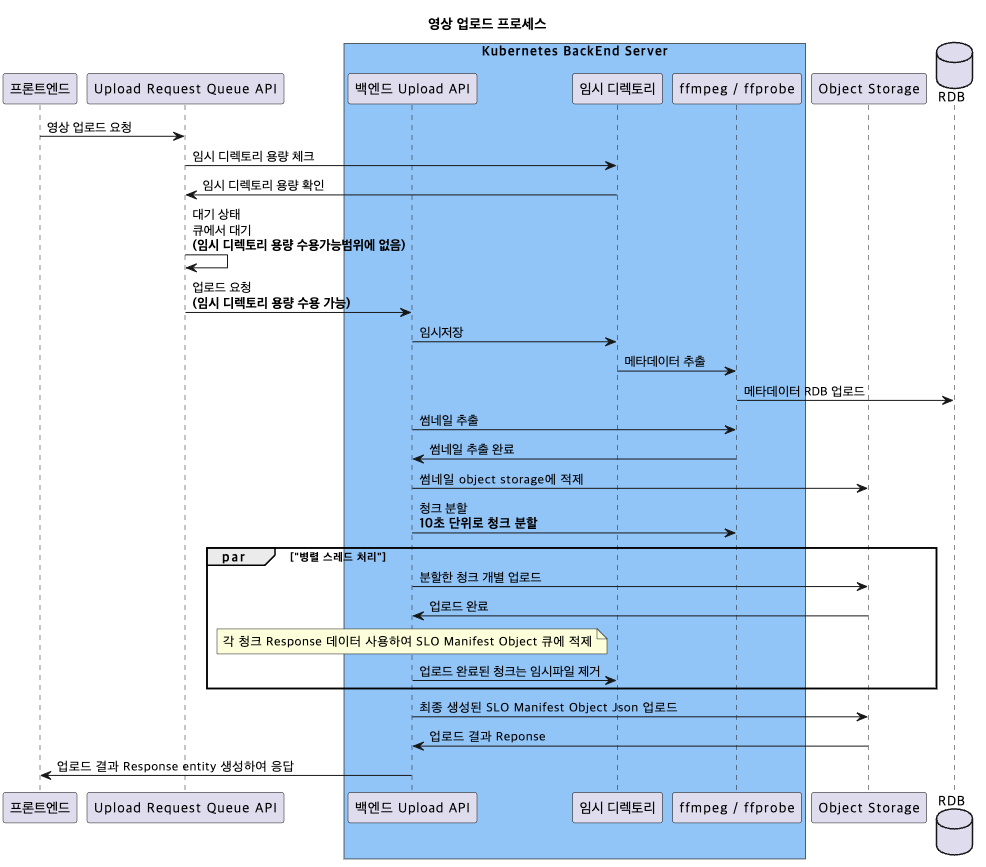
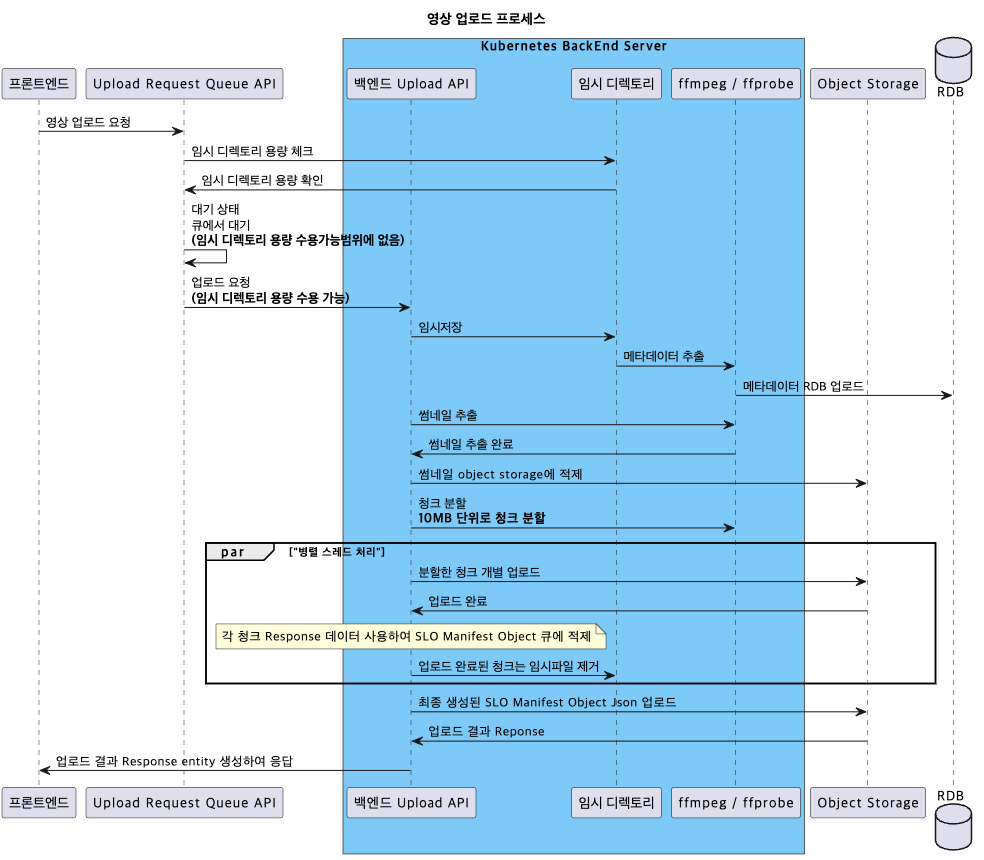
Readme 수정

diff --git a/working_History/README.md b/working_History/README.md
@@ -108,6 +108,8 @@ PresignedURL을 사용하지 못하고 , ***X-Auth-Token***을 사용해 object 
 
 
 ### slo 업로드 방식
+#### **중요 고려사항**
+***SLO (Static large object) 방식으로 파일을 업로드하기 위해선 !! chunk를 나눌 때 , ffmpeg와같은 특정솔루션을 통해 나누는것이 아니라 , Byte단위의 데이터로 쪼개야 합니다 !!***
 
 ### slo 다운로드 방식에 대한 고찰
 slo방식으로 object storage에 업로드 되었기때문에 , 대용량 파일은 chunk별로 쪼개져서 저장되고 , 각 chunk들을 관리하는 manifest object 파일이 생성되었습니다.
